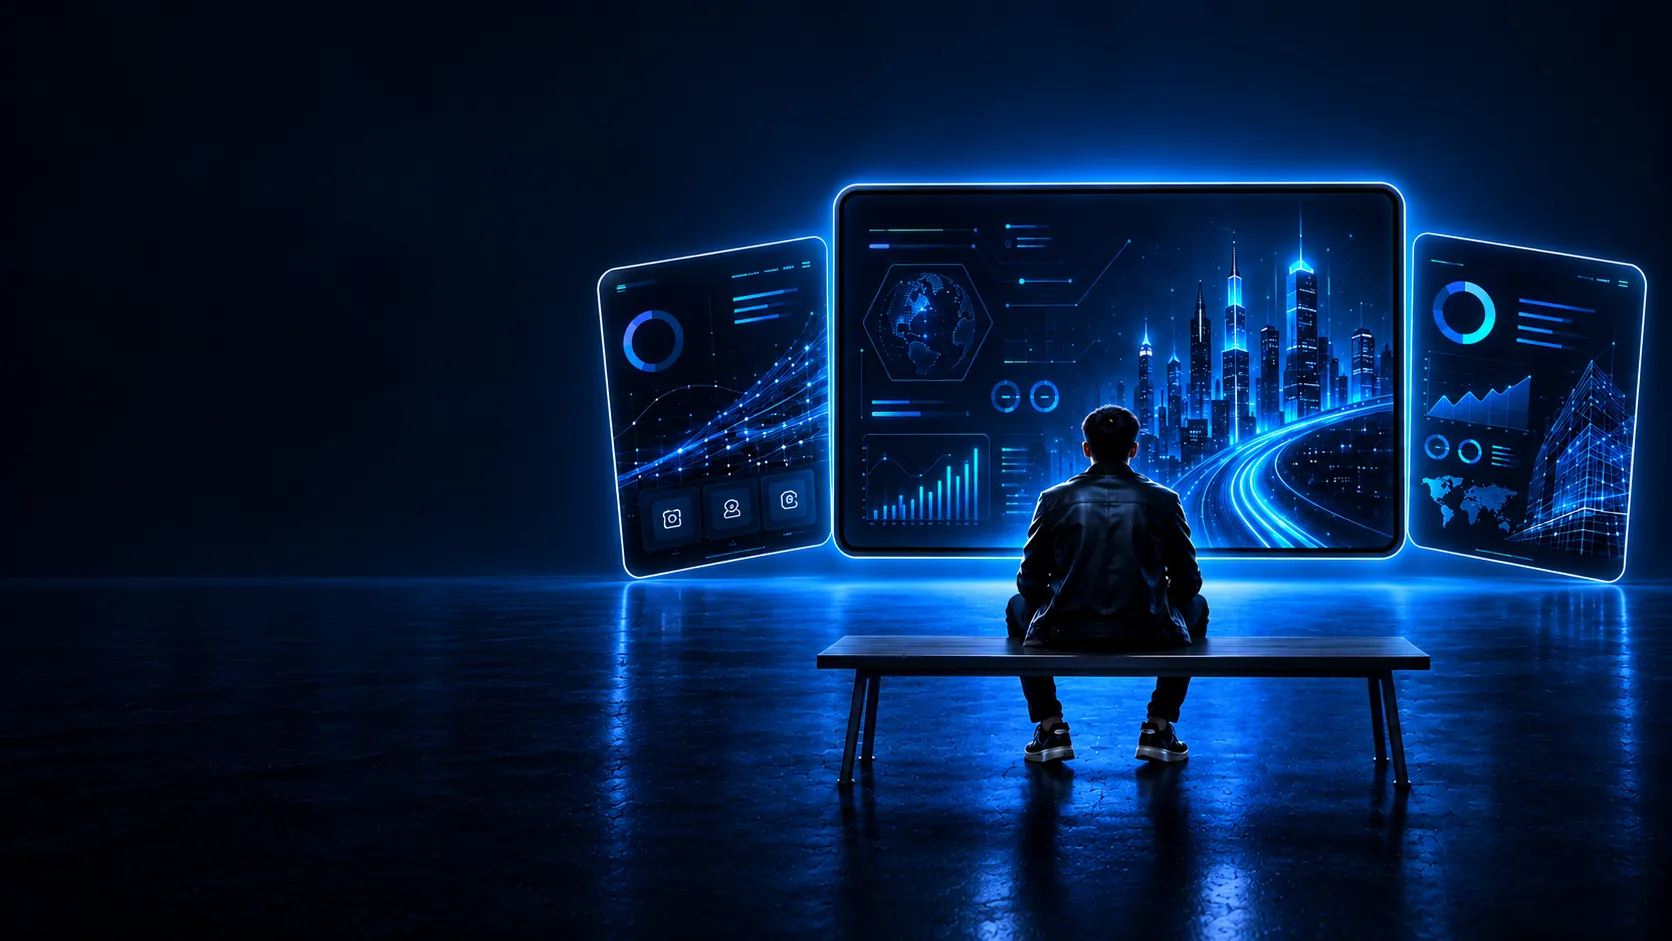
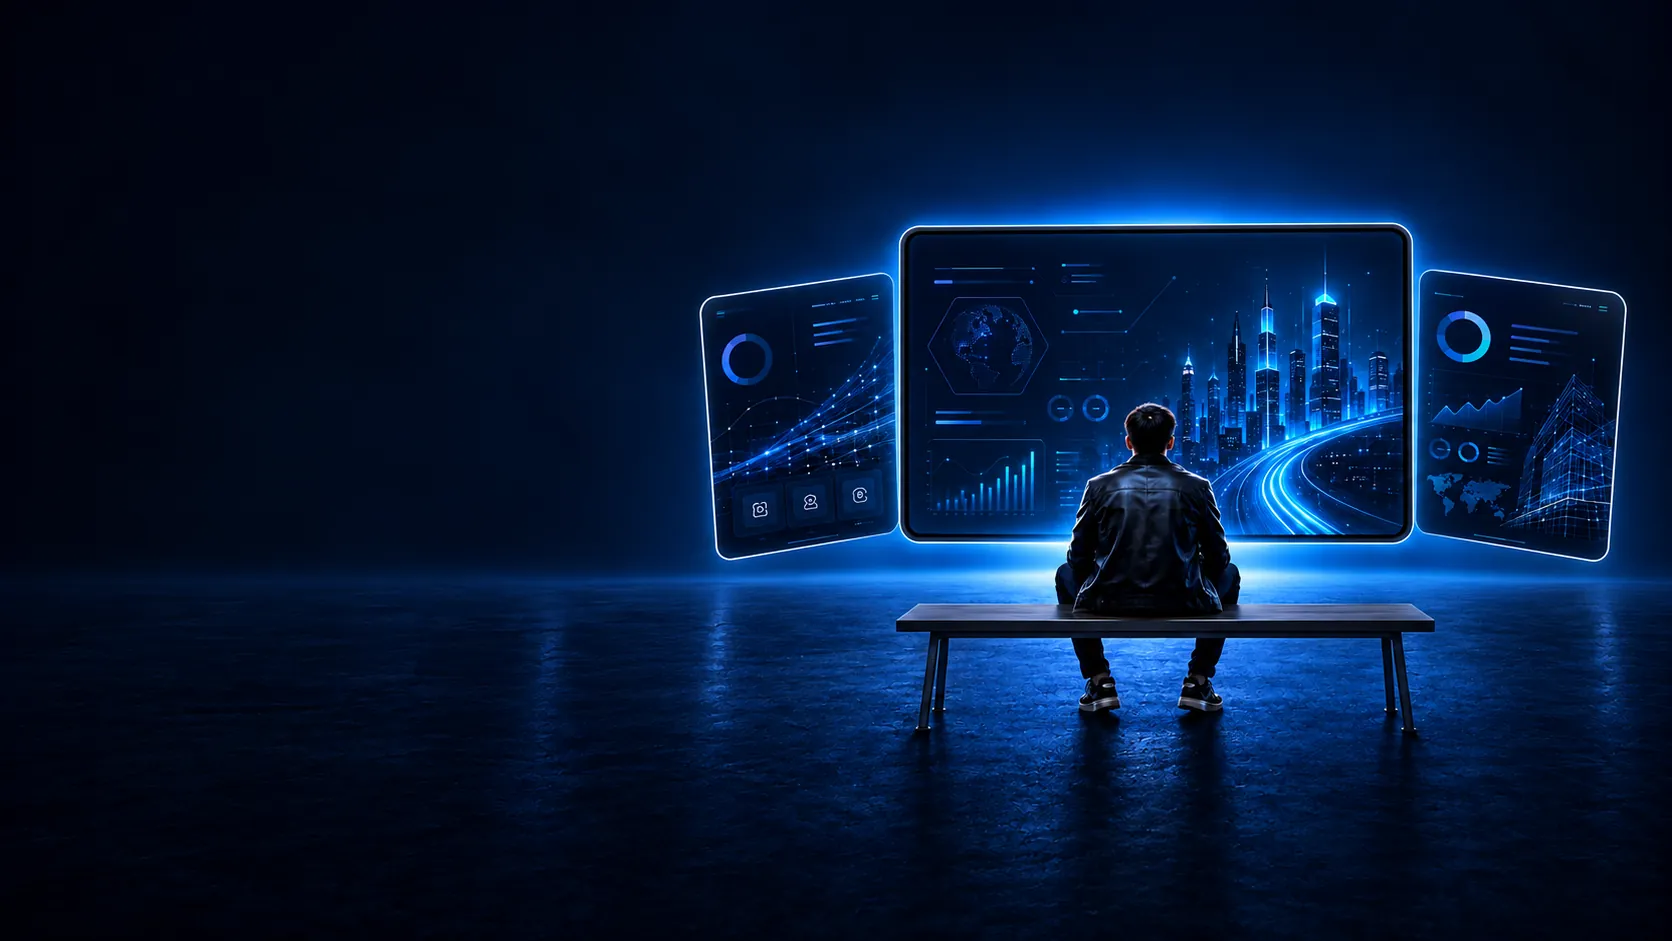
Zoomed-out bench image; rooftop line drops the rocket verb
Bench slide uses the zoomed-out render so the headline and buttons clear
the screens on laptops. Rooftop line: "Supreme Team Media takes your
business to the next level." (the rocket is gone, so "blasts" no longer
fit). Slide buttons ease down slightly on smaller laptops (full size from
~1460px) so the row never reaches into a render's subject. Phones crop the
bench square to the man and his three screens.

Claude-Session: https://claude.ai/code/session_01UEQ51seTp4ZgqmBrAsFJok

diff --git a/src/components/marketing/studio/sections/homeUsps.css b/src/components/marketing/studio/sections/homeUsps.css
@@ -32,7 +32,7 @@
    from the render's edges, with the image's top and bottom dissolving into
    it so no seam line shows. */
 .stm-studio .stm-slide{position:relative;overflow:hidden;display:flex;flex-direction:column;padding:64px 0 72px;color:hsl(42 36% 94%);container-type:inline-size}
-.stm-studio .stm-slide-attention{background:linear-gradient(180deg,#000B1D 0%,#020D20 50%,#030E23 100%)}
+.stm-studio .stm-slide-attention{background:linear-gradient(180deg,#00071A 0%,#000516 50%,#000412 100%)}
 .stm-studio .stm-slide-boost{background:linear-gradient(180deg,#103D78 0%,#1E3A62 45%,#27364D 100%)}
 .stm-studio .stm-slide-text{display:contents}
 .stm-studio .stm-slide-title{order:1}
@@ -45,7 +45,7 @@
 .stm-studio .stm-slide-frame img{display:block;width:100%;height:auto;-webkit-mask-image:linear-gradient(180deg,transparent 0%,#000 10%,#000 90%,transparent 100%);mask-image:linear-gradient(180deg,transparent 0%,#000 10%,#000 90%,transparent 100%)}
 /* Phones: the bench render's empty left side is dead space — crop to the
    man and his three screens. */
-.stm-studio .stm-slide-attention .stm-slide-frame img{aspect-ratio:4 / 3;object-fit:cover;object-position:100% center}
+.stm-studio .stm-slide-attention .stm-slide-frame img{aspect-ratio:1 / 1;object-fit:cover;object-position:95% center}
 /* Phones: the rooftop crops to the owner, his panels and the gold tower. */
 .stm-studio .stm-slide-boost .stm-slide-frame img{aspect-ratio:1 / 1;object-fit:cover;object-position:94% center}
 
@@ -80,7 +80,10 @@
   .stm-studio .stm-slide-title::after{margin:clamp(14px,2.2vh,24px) 0 0;transform-origin:left}
   .stm-studio .stm-slide-copy{width:auto;margin:clamp(18px,3vh,32px) 0 0;text-align:left}
   .stm-studio .stm-slide-copy p{margin:0;max-width:34ch;font-size:clamp(18px,1.45vw,22px)}
-  .stm-studio .stm-slide-actions{justify-content:flex-start;margin-top:clamp(18px,3vh,30px)}
+  .stm-studio .stm-slide-actions{justify-content:flex-start;margin-top:clamp(18px,3vh,30px);gap:clamp(10px,1vw,14px)}
+  /* Buttons ease down on smaller laptops so the row never reaches into the
+     render's subject (full size from ~1460px wide). */
+  .stm-studio .stm-slide-btn{font-size:clamp(14px,1.1vw,16px);padding:0 clamp(18px,1.8vw,26px)}
 }
 @media (prefers-reduced-motion: reduce){
   .stm-studio .stm-stack-hold{height:0}

diff --git a/src/components/marketing/studio/sections/HomeUsps.tsx b/src/components/marketing/studio/sections/HomeUsps.tsx
@@ -146,6 +146,7 @@ export function GetAttention() {
 
 /** Slide 3, the finale: the owner on a rooftop at sunrise over the city, his
  *  gold building below and his wins (sales, bookings, reviews) beside him.
+ *  The rooftop makes "next level" literal — he's standing on the top floor.
  *  "See the results" drops straight into the Work section below. */
 export function BoostBrands() {
   return (
@@ -154,7 +155,7 @@ export function BoostBrands() {
       variant="stm-slide-boost"
       mediaKey="home-next-level"
       lines={["We boost brands", "higher,", <b key="f">faster.</b>]}
-      line="Supreme Team Media blasts your business to the next level."
+      line="Supreme Team Media takes your business to the next level."
       actions={[
         { label: "See the results", to: "#work", tone: "gold", track: "boost_brands_see_results", hash: true },
         { label: "Free Business Checkup", to: "/free-audit?src=home-boost-brands", tone: "wine", track: "boost_brands_free_checkup" },

diff --git a/src/components/marketing/studio/sections/afterDark.css b/src/components/marketing/studio/sections/afterDark.css
@@ -88,7 +88,9 @@
   .stm-studio .stm-dark-title::after{margin:clamp(14px,2.2vh,24px) 0 0;transform-origin:left}
   .stm-studio .stm-dark-copy{width:auto;margin:clamp(18px,3vh,30px) 0 0;text-align:left}
   .stm-studio .stm-dark-copy p{margin:0;max-width:34ch;font-size:clamp(18px,1.45vw,22px)}
-  .stm-studio .stm-dark-actions{justify-content:flex-start;margin-top:clamp(18px,3vh,28px)}
+  .stm-studio .stm-dark-actions{justify-content:flex-start;margin-top:clamp(18px,3vh,28px);gap:clamp(10px,1vw,14px)}
+  /* Same easing as the other slides' buttons, so all three match. */
+  .stm-studio .stm-dark-btn{font-size:clamp(14px,1.1vw,16px);padding:0 clamp(18px,1.8vw,26px)}
 }
 @media (prefers-reduced-motion: reduce){
   .stm-studio .stm-dark-frame,.stm-studio .stm-dark-copy,.stm-studio .stm-dark-tline{opacity:1 !important;transform:none !important;transition:none !important}
